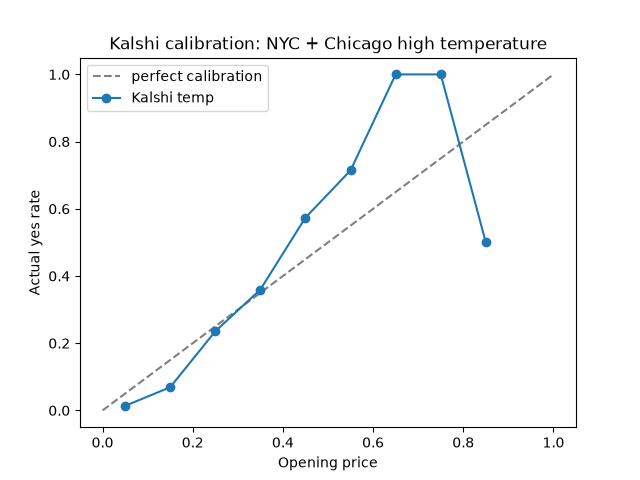
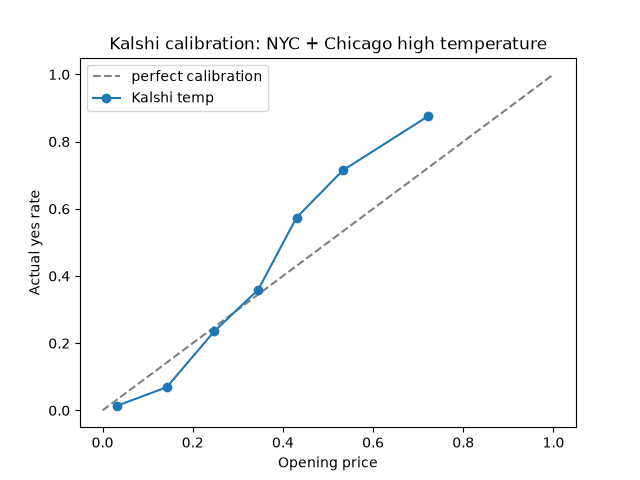
Merge 60¢+ bucket and plot at average price

diff --git a/chart.py b/chart.py
@@ -3,15 +3,17 @@ import matplotlib.pyplot as plt
 
 totals = [0] * 10
 yeses = [0] * 10
+price_sums = [0] * 10
 
 with open("markets.csv", "r") as f:
     reader = csv.DictReader(f)
 
     for row in reader:
         price = float(row["open_price"])
-        bucket = min(int(price * 10), 9)
+        bucket = min(int(price * 10), 6)
         totals[bucket] += 1
-
+        price_sums[bucket] += price
+        
         if row["result"] == "yes":
             yeses[bucket] += 1
 
@@ -22,9 +24,12 @@ for i in range(10):
     if totals[i] == 0:
         continue
     rate = yeses[i] / totals[i]
-    xs.append(i * 0.1 + 0.05)
+    xs.append(price_sums[i] / totals[i])
     ys.append(rate)
-    print(f"{i*10}-{(i+1)*10}¢: {totals[i]} markets, {rate:.0%} yes")
+    if i == 6:
+        print(f"{i*10}-{(i+4)*10}¢: {totals[i]} markets, {rate:.0%} yes")
+    elif i < 6:
+        print(f"{i*10}-{(i+1)*10}¢: {totals[i]} markets, {rate:.0%} yes")
 
 plt.plot([0, 1], [0, 1], "--", color="gray", label="perfect calibration")
 plt.plot(xs, ys, "o-", label="Kalshi temp")
